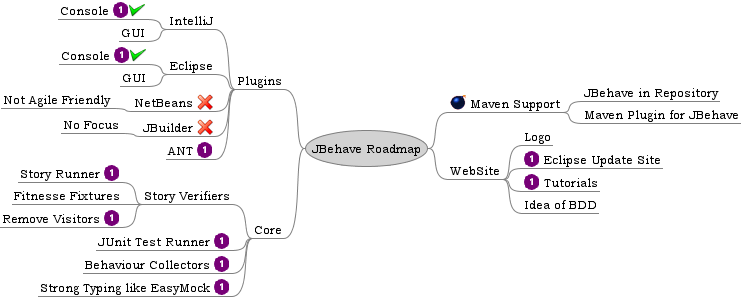
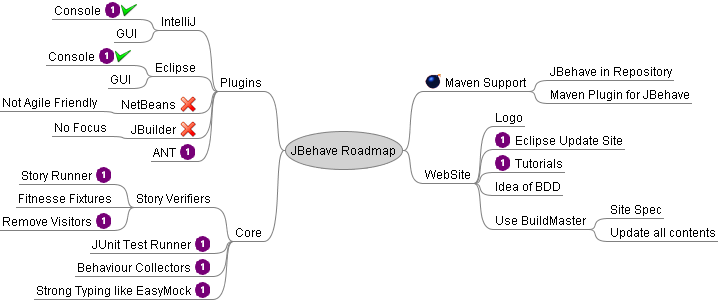
updated roadmap with tasks for buildmaster
git-svn-id: https://svn.codehaus.org/jbehave@483 df8dfae0-ecdd-0310-b8d8-a050f7ac8317

Changed region(s): [[0.3677, 0.2121, 1.0, 0.8182], [0.0, 0.0, 0.3983, 0.5455], [0.0, 0.5455, 0.3983, 1.0]]

diff --git a/trunk/JBehaveRoadmap.mm b/trunk/JBehaveRoadmap.mm
@@ -42,6 +42,10 @@
 <icon BUILTIN="full-1"/>
 </node>
 <node CREATED="1146106967905" ID="Freemind_Link_1494945238" MODIFIED="1146106971610" TEXT="Idea of BDD"/>
+<node CREATED="1149178774953" ID="Freemind_Link_1188241712" MODIFIED="1149178779093" TEXT="Use BuildMaster">
+<node CREATED="1149178787109" ID="Freemind_Link_1606586976" MODIFIED="1149178788968" TEXT="Site Spec"/>
+<node CREATED="1149178791812" ID="Freemind_Link_1632050739" MODIFIED="1149178816968" TEXT="Update all contents"/>
+</node>
 </node>
 <node CREATED="1146106660302" ID="Freemind_Link_856191641" MODIFIED="1146106736422" POSITION="left" TEXT="Core">
 <node CREATED="1146106665009" ID="Freemind_Link_1744850690" MODIFIED="1146106668444" TEXT="Story Verifiers">
